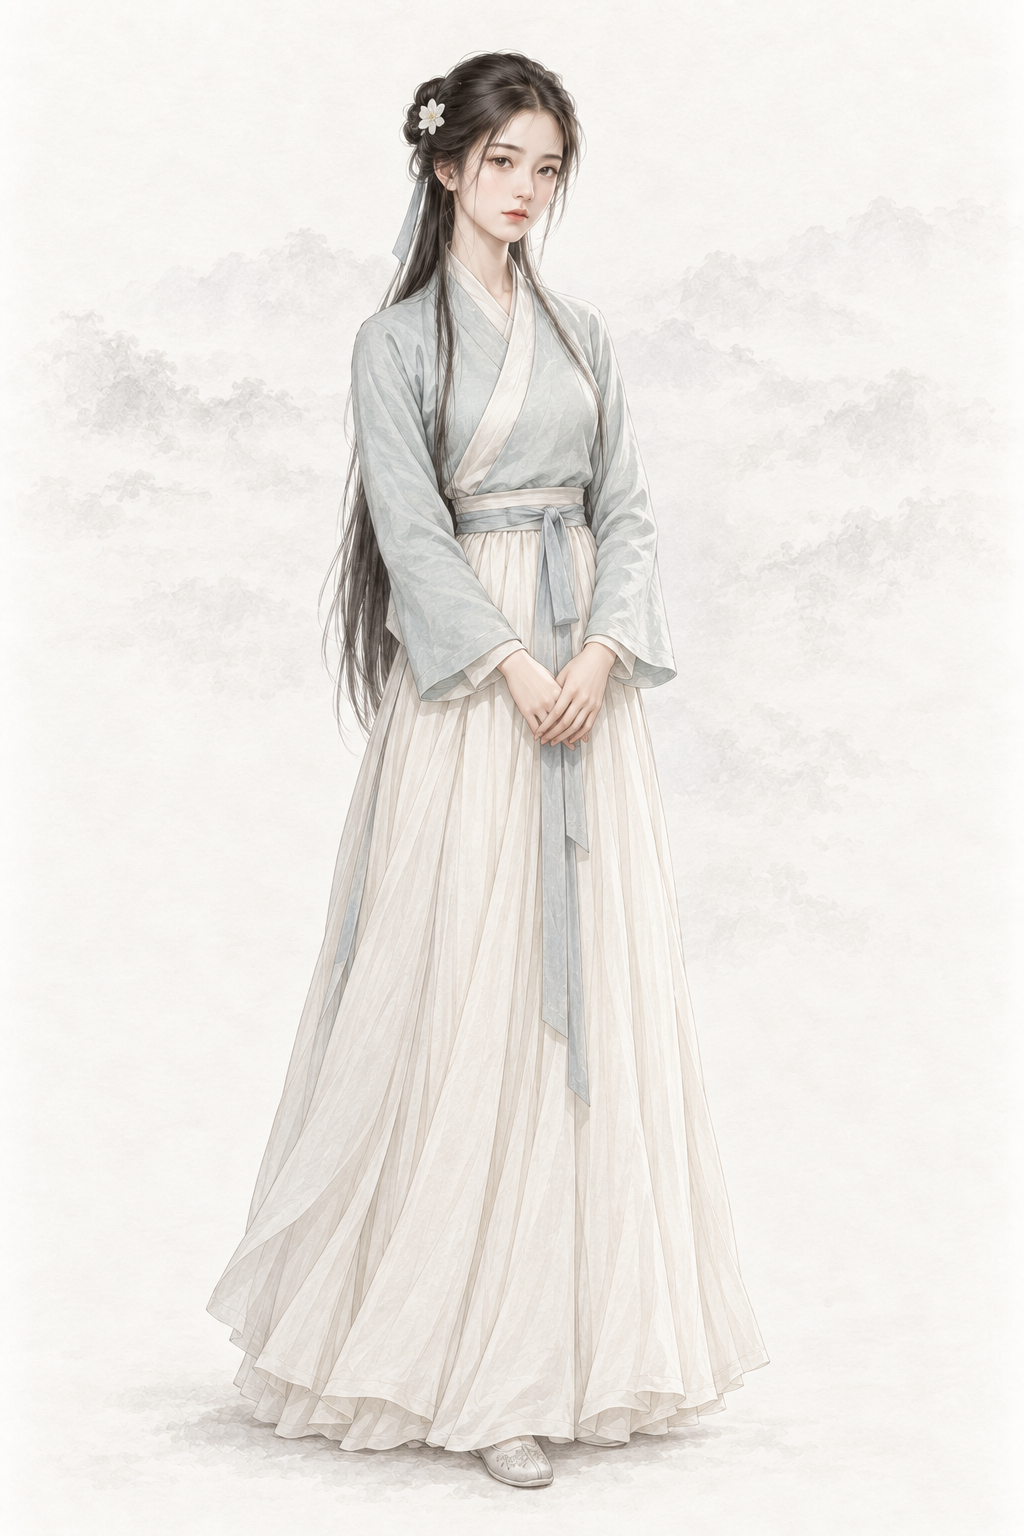
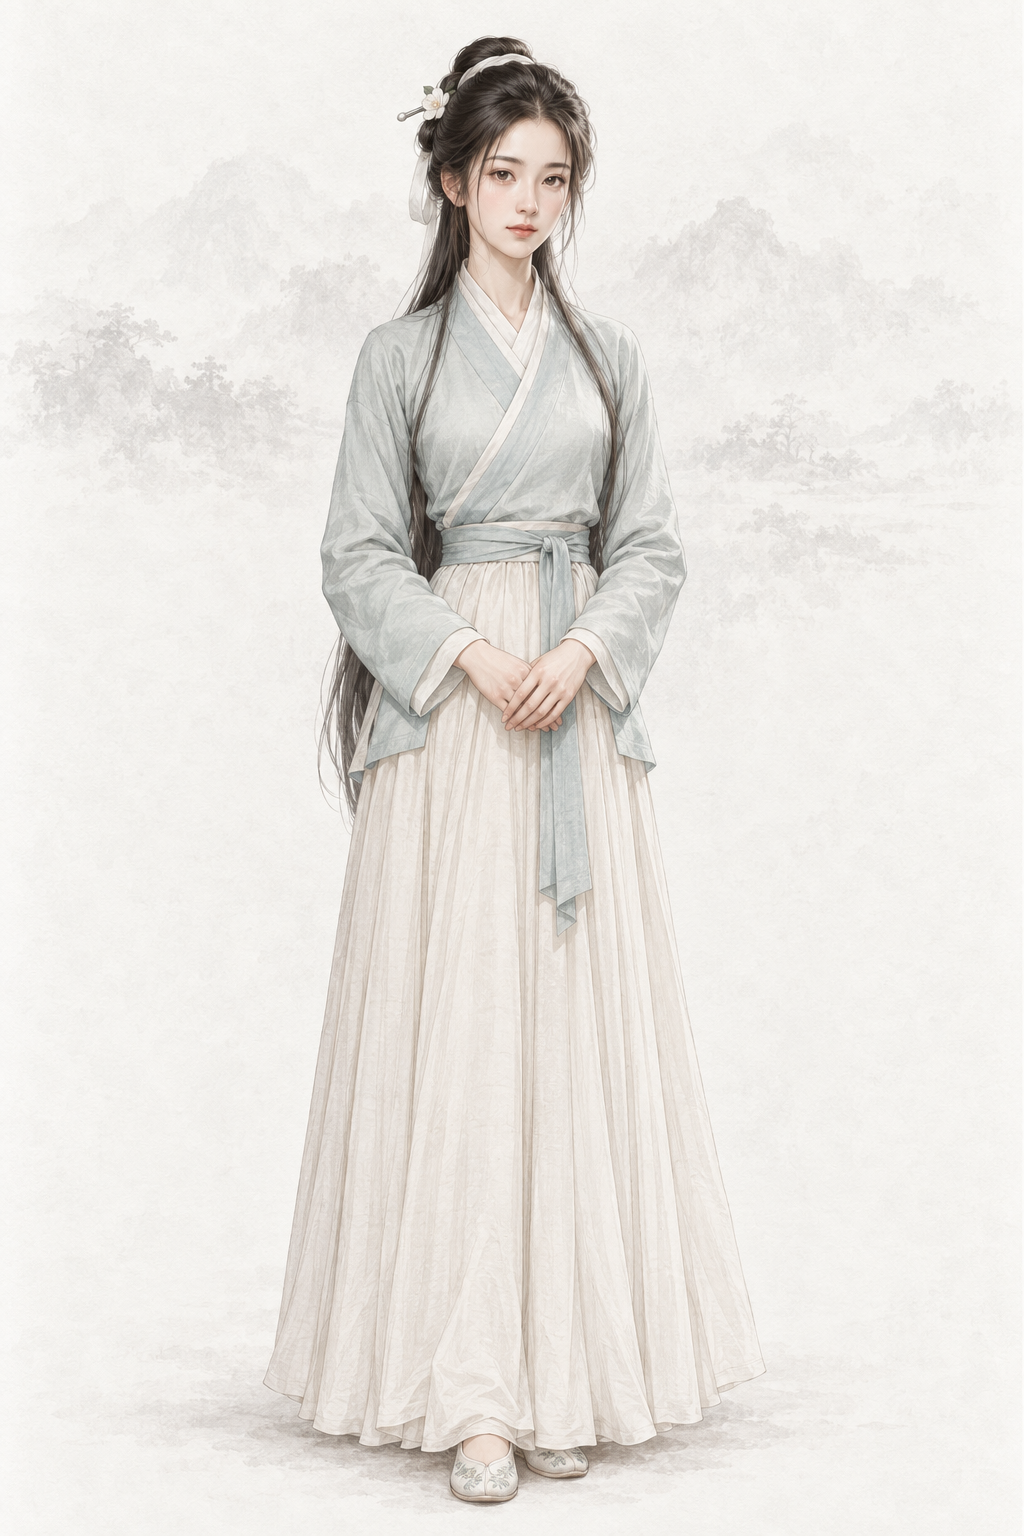
assets(character): por_npc_axiu__ch06_youth_ziyan_base 白阿绣（codex · AR-32 文字 + 基线）
本人无可用剧照或可靠游戏头像，只用文字与两张同性别基线重出；提示词写回、frontmatter 加 classic_ref。

diff --git a/assets/default/prompts/characters/ch06-xiake/npc_axiu.md b/assets/default/prompts/characters/ch06-xiake/npc_axiu.md
@@ -13,9 +13,11 @@ references:
     use: 当前仓库 manifest 为 approved；仅借纸底、光线、笔触与设色，不沿用面容、体型、服饰或道具。
 status: new
 redo_reason: "侠客行女主角缺基础立绘（只有五张场景图）；场景图是磨皮网红脸、偏低龄，不作身份参考，按原著温柔坚贞的气质从文字新建。"
+codex_prompt_rev: 2026-10-02
 reference_upload:
 - assets/default/baseline/character/female/ref_npc_wangyuyan__ch01_base01.png
-codex_prompt_rev: 2026-10-02
+- assets/default/baseline/character/female/ref_npc_xiaolongnv__ch03_base01.png
+classic_ref: "无（作者 10-02 指定侠客行用《金庸群侠传》头像；游戏里没有可靠的阿绣头像，只用文字与基线）"
 ---
 
 <!-- full-coverage-import:current-policy:v1 -->
@@ -28,6 +30,27 @@ codex_prompt_rev: 2026-10-02
 # 白阿绣 · 《侠客行》（ch06）
 
 ## Gemini 提示词
+
+> 2026-10-02 AR-32 重出（8 号出图员，codex exec · image_gen）：本人没有可用的经典剧照或可靠游戏头像，只用文字与两张同性别画风基线（缩小版 JPEG，放在最后上传）；按原著与设定重写人物描写，去 AI 味、禁止幼态。上一版保留在下一节作历史。
+
+```text
+生成一张 2:3 竖幅全身人物立绘：单人、单一视角、完整全身——头顶、双手、双脚和手中器物的两端都在画面内，四周留出自然空白；人物站姿自然，身体基本朝向正面，头部端正（不歪头、不仰不俯），镜头平视。
+【参考图】随提示词上传的两张参考图都是本项目的立绘画风基线：画风、用色、光线、质感和暖浅灰纸底加淡水墨背景以它们为准；它们只管画风，不取长相、年龄、发型、服饰和姿势。人物的长相和造型完全按下面的文字来画。
+【画风】写实手绘古风人物插画，与本项目写实武侠角色立绘同一画风，像功力深厚的画师用细腻笔触画出的真实人物。手绘插画质感，不是 CG 渲染：不要过度光滑的皮肤、完美对称的五官、塑料高光、过度锐利的发丝；保留自然的笔触和细微不完美。皮肤有真实质感——细小毛孔、细纹、晒痕和自然的左右不对称，不磨皮、不油亮；头发是一缕缕自然的发丝和少量碎发；布料看得出经纬纹理、厚薄和自然垂坠的褶皱，带穿用过的轻微旧化，但完整不破烂；整体设色低饱和、沉稳；柔和的自然光从左上方照来，明暗过渡自然，不打舞台光、轮廓光或美颜柔光。不是照片，不是三维渲染，不是动漫或游戏 CG，也不是油画（没有厚涂笔触和画布纹理）。
+【背景】不透明的暖浅灰色纸底，只在远处有极淡的水墨远山和薄雾，大面积留白；人物与背景明暗分明、轮廓边缘干净完整（后续要自动抠图），水墨和纸纹只在背景里，不侵入人物和衣服；脚下只有很淡的一点接触阴影。
+【人物】白阿绣（阿绣），《侠客行》女主角，雪山派白万剑之女、史小翠的孙女；随祖母在紫烟岛养病、与石破天相识相知的时期。
+【年龄与体态】约二十岁的成年年轻女子，身量纤细但为成人比例（约七头身），体态轻盈柔和，带一点病后初愈的清弱，站姿端正。
+【经典造型】清丽温婉的雪山派小姐：素青短袄、暖白长裙、鬓边一朵小白绢花；温柔娴静、楚楚动人，眼神里有认定了就不改的坚定——是让人一见难忘的美人。
+【面容】清秀的鹅蛋脸，下巴圆润柔和；肤色白净，带一点病后初愈的淡淡苍白，双颊透着浅浅的血色；眉毛细长柔顺、眉尾微垂；一双眼睛清澈温柔、眼型秀长（自然大小），眼神羞怯里带着坚定；鼻梁秀挺、鼻头小巧；嘴唇薄而柔和、唇色淡粉，似有若无的浅笑。五官精致而有个人特点，温婉、娴静、善良。
+【发式】乌黑长发挽成低髻，用素白发带系住，余发顺垂在肩后；鬓边插一朵小小的白绢花和一支素银簪。
+【服饰】明代女子的素青色窄袖交领短袄（右衽，左襟压右襟），领口镶一道白边；暖白色长裙，浅青色腰带垂下短短一截；素白平底绣鞋。细布衣料朴素干净、完整不透。
+【道具】空手；双手轻轻交握在腹前。
+【姿态与神情】安静站立，身体朝向正面，目光柔和而笃定。
+【不要】画面里不要任何文字、题款、印章、签名、水印、边框、分格或多视图；不要第二个人；不要幼态（童颜、娃娃脸、婴儿肥、儿童或少年身材、大头小身）；不要塑料感皮肤、磨皮美颜、网红脸（尖下巴大眼高鼻的模板脸）、过度对称、浓妆、偶像式打光、蜡像感；不要照片质感、三维渲染或动漫大眼；不要歪头、斜镜头；不要多指、缺指（设定的伤残除外）、手与器物粘连或悬空；衣襟必须右衽（穿着者的左襟压在右襟上），不要左衽（设定为少数民族服制的除外），不要水平镜像；不要现代物品、发光特效、法阵或能量光。不要大眼娃娃脸和少女幼态；不要华贵珠翠和拖尾长裙；不要病恹恹的瘫软姿态；不要和丁珰同一张脸；不要清代旗装。
+【画风基线】随提示词上传的参考图里，最后两张是本项目的立绘画风基线：只参考它们的画风、用色、光线、质感和暖浅灰纸底加淡水墨的背景处理，整体画风必须与它们一致——精细写实的数字手绘插画，不是油画，不要厚涂笔触和画布纹理。基线图只取画风，不取长相：不要照搬基线图里人物的长相、年龄、发型、服饰和姿势。
+```
+
+## AR-31 文字版 Gemini 提示词（2026-10-02 凌晨；AR-32 重出之前，历史，不再用于出图）
 
 > 2026-10-02 Codex 人物线 2 号（AR-31）：在审核组稿上补一行「经典形象」（借鉴公认经典造型的发式、装束、配色、标志道具与气质，只写文字，不写演员名、不上传剧照），并补去 AI 化要求。本轮出图用下面第一个代码块；审核组原稿保留在其后的「审核组原稿」小节作历史。
 
